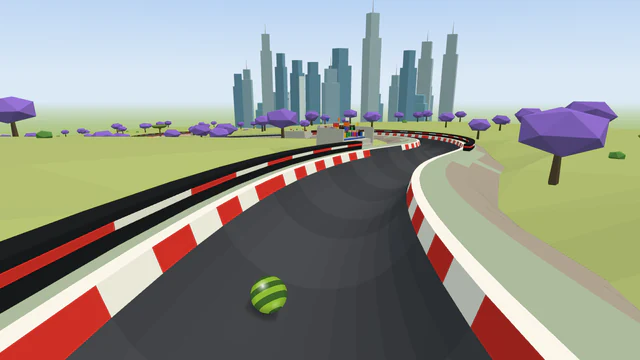
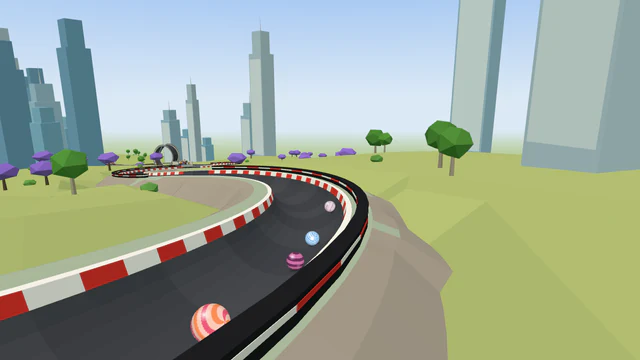
Nairobi Marble Grand Prix: its own layout; its records start again
Moses's order (7 Nov 2026, 08:26): four more Grand Prix tracks re-laid like Lagos, Istanbul and Sydney,
Nairobi first; its own layout and opening, two signature features from the real place, no jump. Until
now Nairobi was the Grand Prix recipe of 10 Oct 2026 (Dubai's track, mirrored). A banked-turn opening
to the right (the KICC drop and the City bank), the Uhuru S-bends (a slalom, then a cone), the
Expressway loop (the signature: a loop on the elevated Nairobi Expressway, its TV camera just past
it), the Run to Westlands, the Westlands hairpin (turning left: turning right, the Mbagathi S-bends
ran under the loop's straight and the follow camera went inside the bank), the Mbagathi S-bends, the
Acacia splitter (shorter than the Grand Prix one; its inside channel rougher), the Plains spiral and
the Plains straight along the park fence. Start shots from the front, then looking back.

Full report: all 56 lines pass (winner 54.0 s, last 78.5 s, gap 15.1 s, 67 overtakes; 60,000 of 60,000
round the loop; splitter 55.7%/53.1% and 44.3%/46.9%; layout closest 0.63, first 20 seconds closest
0.78). Website TV camera test passes. Data update 2027-06-06-nairobi-marble-grand-prix-new-layout.sql
(--relayout: its records start again). Off the sameness test's known failures; the loop test lists
it. Docs: 02, 04, 06, README, src/tracks/README.md. Server suite 626 pass; website 1810 pass.

Claude-Session: https://claude.ai/code/session_011vSSkqNPL9kncfzrwF15wS

diff --git a/src/tracks/nairobi-marble-grand-prix.js b/src/tracks/nairobi-marble-grand-prix.js
@@ -1,57 +1,71 @@
 'use strict';
 
-const { track, plunge, straight, sBends, sweep, spiral, hairpin, splitter, runIn, pileUp, swipe, parked, slalom, boost, rumble } = require('../trackKit');
+// Nairobi Marble Grand Prix, its own layout (Moses, 7 Nov 2026: four more Grand Prix tracks re-laid the same way
+// as Lagos, Istanbul and Sydney, Nairobi first). Until then it was the Grand Prix recipe of 10 Oct 2026 (the same
+// track as Dubai, mirrored). Now the field drops from the KICC and banks right into the city, threads the Uhuru
+// S-bends, loops the loop on the Nairobi Expressway (the signature: the elevated highway over the city), runs to
+// Westlands and round its hairpin, takes the Mbagathi S-bends into the Acacia splitter (a channel either side of a
+// great flat-topped acacia, giraffes beyond), spirals down onto the plains of the national park and runs along its
+// fence to the line. Its records started again with the new layout (tracks.records_since).
+const {
+  track, opening, straight, sBends, spiral, hairpin, splitter, runIn, peg, slalom, swipe, rumble, loop,
+} = require('../trackKit');
 
 module.exports = track({
   slug: 'nairobi-marble-grand-prix',
   name: 'Nairobi Marble Grand Prix',
   difficulty: 'extreme',
-  description: 'The city where wildlife lives beside the skyline: from the KICC tower through Uhuru Park and downtown, then along the national park\'s fence with giraffes and zebras grazing, to a grandstand finish on the plains.',
+  description: 'The city where wildlife lives beside the skyline: down from the KICC and through Uhuru Park, round the loop on the Nairobi Expressway, through Westlands and either side of a great acacia, and down onto the national park\'s plains to a grandstand finish.',
   surface: 'asphalt',
   biome: 'city',
   lighting: 'day',
   variants: ['sunset'],
   grandPrix: true,
-  signature: 'Park boundary run',
+  signature: 'Expressway loop',
   tvCameras: [
-    { section: 'Park boundary run', at: 0.8, side: 'left', distance: 6, height: 8 },
-    { section: 'Acacia splitter', at: 0.8, side: 'left', distance: 10, height: 8 },
+    // (Past the loop, looking back up at the field coming round it.)
+    { section: 'Expressway loop', at: 0.55, side: 'right', distance: 8, height: 7 },
   ],
   billboardFrame: 'plain',
-  start: { landmark: 'kicc-tower', scenery: ['skyscrapers'], shots: { countdown: 'chase', launch: 'overhead' } },
+  start: { landmark: 'kicc-tower', scenery: ['skyscrapers'], gate: 'barrier', shots: { countdown: 'front', launch: 'look-back' } },
   finish: { landmark: 'safari-truck', scenery: ['savannah'] },
   designChanges: [
-    'The traffic-cone chicane is at the foot of the City plunge, straight after the tyre stacks, rather than in the Uhuru S-bends: on the bends it left too few overtakes and the field reached the splitter sorted so that one channel never gave its marbles a fair share of wins (measured on Dubai Marble Grand Prix, the same layout).',
-    'The Acacia splitter comes straight after the Uhuru S-bends, before the Downtown sweep, rather than after the Park boundary run: the proven place for a splitter is after S-bends, where the field arrives mixed, and out of the hairpin the field rides one side of the channel (measured on Dubai Marble Grand Prix).',
-    'A 50 m straight, "Run to the hairpin", before the hairpin, and the parked matatu stands there rather than at the hairpin itself: the recipe needs a braking zone before the one sharp bend and keeps parked objects to straights (on a bend one traps marbles against it).',
-    'The parked safety car is on a straight, "Plains straight", between the spiral and the finish rather than on the run-in: the recipe keeps the last 25 m before the line clear.',
+    'A new layout (7 Nov 2026): until then Nairobi was physically the Grand Prix recipe of 10 Oct 2026 (the same track as Dubai Marble Grand Prix, mirrored). Its old signature, the Park boundary run, goes.',
+    'Two Nairobi features: the Expressway loop (big feature one, the signature: a loop on the elevated Nairobi Expressway) and the Acacia splitter (big feature two: a channel either side of a flat-topped acacia, as on the plains of the national park). No jump: the three jump tracks are used.',
+    'The opening a banked turn to the right (the KICC drop, then a 110° bank into the city): the latest re-layouts opened with a split start, a crest, a pipe drop and a funnel drop. Its start shots (from the front, then looking back) are its own among the Grand Prix tracks.',
+    'The Acacia splitter shorter than the Grand Prix one (a 60 m run-in, 100° round the tree and a 30 m merge) and the Plains spiral tighter (40 m): with the full-length splitter the winner took 56 s, over the 55 s target. With the shorter splitter its inside (right) channel was the quicker way round, so it is rougher (2.1) and the outside one smoother (0.3), and the tip 0.3 m over: now about 46% of the marbles take the inside channel and win about 51% of the races.',
+    'The Uhuru S-bends\' slalom before their cone, not after it: the other way round, the first 20 seconds were too like Accra December Beats\' (a banked-turn opening, then a pile-up, a slalom, a bend, a peg and a slalom; 0.84). The Uhuru S-bends gentler than first drawn (75°, not 90°): at 65° to 90° the weakest marbles reached the Expressway loop\'s launch pad more often than the strongest. The loop keeps its full 130 m straight (30 m before the pad and 15 m after the catch, as the recipe needs). The Westlands hairpin turns left: turning right, the Mbagathi S-bends ran under the loop\'s straight (3 m aside, 25 m below) and the follow camera went inside the bank between them.',
   ],
+  opening: opening('banked-turn', {
+    side: 'right',
+    costumes: { block: 'tyre-stack', slalom: 'traffic-cone' },
+    names: { plunge: 'KICC drop', turn: 'City bank' },
+    dress: { plunge: { scenery: ['skyscrapers'] }, turn: { scenery: ['skyscrapers'] } },
+  }),
   sections: [
     {
-      name: 'City plunge', shape: plunge(80, { grade: 0.6 }),
-      obstacles: [pileUp({ costume: 'tyre-stack', at: 0.42 }), slalom({ costume: 'traffic-cone', from: 0.55, to: 0.97, count: 6, loss: 0.3 })],
+      name: 'Uhuru S-bends', shape: sBends({ first: 'left', radius: 70, degrees: 75, grade: 0.16 }), billboards: 3, scenery: ['jacarandas', 'crowd'],
+      obstacles: [slalom({ costume: 'traffic-cone', from: 0.15, to: 0.5, count: 3, loss: 0.2 }), peg({ costume: 'traffic-cone', at: 0.75, line: 'center' })],
     },
-    { name: 'Uhuru S-bends', shape: sBends({ first: 'left', radius: 75, degrees: 80, grade: 0.13 }), billboards: 2, scenery: ['jacarandas', 'crowd'] },
+    { name: 'Expressway loop', shape: straight(130, { grade: 0.12 }), features: [loop({ at: 0.25, viewSide: 26 })], scenery: ['skyscrapers'] },
     {
-      name: 'Acacia splitter', shape: splitter({ side: 'left', balance: { tipOffset: -0.8, left: { drag: 1.32, scrub: 1.32 }, right: { drag: 0.42, scrub: 0.72 } } }),
-      around: 'acacia', scenery: ['jacarandas'],
-      landmarks: [{ name: 'safari-truck', at: 0.4, side: 'right', distance: 10 }, { name: 'safari-truck', at: 0.7, side: 'left', distance: 12 }],
+      name: 'Run to Westlands', shape: straight(40, { grade: 0.12 }), billboards: 1, scenery: ['skyscrapers'],
+      obstacles: [peg({ costume: 'traffic-cone', at: 0.3, line: 'left' })],
     },
-    { name: 'Downtown sweep', shape: sweep({ side: 'right', radius: 80, degrees: 160, grade: 0.07 }), features: [boost({ at: 0.08 })], billboards: 3, scenery: ['skyscrapers'] },
+    { name: 'Westlands hairpin', shape: hairpin({ side: 'left' }), obstacles: [swipe({ costume: 'camera-crane', side: 'high' })], scenery: ['grandstand'] },
+    { name: 'Mbagathi S-bends', shape: sBends({ first: 'right', radius: 75, degrees: 85, grade: 0.17 }), scenery: ['jacarandas'] },
     {
-      name: 'Run to the hairpin', shape: straight(50, { grade: 0.12 }), billboards: 1, scenery: ['skyscrapers'],
-      obstacles: [parked({ costume: 'matatu', at: 0.08, side: 'right', length: 6 })],
+      name: 'Acacia splitter',
+      shape: splitter({ side: 'right', approach: 60, degrees: 100, merge: 30, balance: { tipOffset: 0.3, left: { drag: 0.3, scrub: 0.5 }, right: { drag: 2.1, scrub: 2.1 } } }),
+      around: 'acacia', scenery: ['savannah'],
+      figures: ['giraffe', 'zebra', 'giraffe'],
     },
-    { name: 'Hairpin', shape: hairpin({ side: 'left' }), scenery: ['grandstand'] },
+    { name: 'Plains spiral', shape: spiral({ side: 'left', radius: 40, grade: 0.2 }), scenery: ['savannah'] },
     {
-      name: 'Park boundary run', shape: straight(50, { grade: 0.15 }), features: [rumble({ from: 0.62, to: 0.95, count: 3 })], billboards: 1, scenery: ['savannah'],
-      figures: ['giraffe', 'zebra', 'buffalo', 'zebra', 'giraffe'],
+      name: 'Plains straight', shape: straight(45, { grade: 0.15 }), billboards: 1, scenery: ['grandstand', 'savannah'],
+      obstacles: [peg({ costume: 'traffic-cone', at: 0.25, line: 'right' }), peg({ costume: 'traffic-cone', at: 0.45, line: 'left' })],
+      features: [rumble({ from: 0.7, to: 0.95, count: 3 })],
       landmarks: [{ name: 'park-fence', at: 0.5, side: 'right', distance: 3 }],
-    },
-    { name: 'Plains spiral', shape: spiral({ side: 'right', radius: 45, grade: 0.17 }), obstacles: [swipe({ costume: 'camera-crane', at: 0.5, side: 'high' })], scenery: ['savannah'] },
-    {
-      name: 'Plains straight', shape: straight(40, { grade: 0.15 }), billboards: 1, scenery: ['grandstand', 'savannah'],
-      obstacles: [parked({ costume: 'safety-car', at: 0.2, side: 'right', length: 8 })],
     },
     { name: 'Finish', shape: runIn(), scenery: ['savannah'] },
   ],

diff --git a/test/loop.test.js b/test/loop.test.js
@@ -42,8 +42,9 @@ test('the loop\'s proving track: the loop is its feature (the flyover\'s highlig
   assert.equal(pad.min, 25);
   assert.equal(t.physics.kit.signature ?? t.signature, 'The loop');
   assert.ok(t.physics.kit.tv.some((c) => c.section === 'The loop' && c.p > lp.at));
-  // The only tracks with a loop: its proving track, Saint-Tropez and Pudong Marble Grand Prix (3 Nov 2026, both switched off until Moses says).
-  assert.deepEqual(PHYSICS_TRACKS.filter((x) => x.physics?.features?.some((y) => y.type === 'loop')).map((x) => x.slug), [SLUG, 'saint-tropez', 'pudong-marble-grand-prix']);
+  // The only tracks with a loop: its proving track, Saint-Tropez and Pudong Marble Grand Prix (3 Nov 2026), and Nairobi
+  // Marble Grand Prix's Expressway loop (its own layout, 7 Nov 2026).
+  assert.deepEqual(PHYSICS_TRACKS.filter((x) => x.physics?.features?.some((y) => y.type === 'loop')).map((x) => x.slug), [SLUG, 'nairobi-marble-grand-prix', 'saint-tropez', 'pudong-marble-grand-prix']);
 });
 
 test('every marble goes round the loop at racing speed, and every one finishes', () => {

diff --git a/test/samenessAllTracks.test.js b/test/samenessAllTracks.test.js
@@ -43,9 +43,8 @@ const KNOWN = {
   'amazon-water-run': ['layout'],
   'rio-jungle-rumble': ['opening', 'opening-kind', 'layout'],
   'china-wall-twister': ['opening', 'opening-kind', 'layout'],
-  // Grand Prix (one design: Dubai's; Stockholm, Lagos, Istanbul and Sydney have their own since 6–7 Nov 2026).
+  // Grand Prix (one design: Dubai's; Stockholm, Lagos, Istanbul, Sydney and Nairobi have their own since 6–7 Nov 2026).
   'dubai-marble-grand-prix': ['opening', 'opening-kind', 'layout'],
-  'nairobi-marble-grand-prix': ['opening', 'opening-kind', 'layout'],
   'delhi-red-fort-marble-grand-prix': ['opening', 'opening-kind', 'layout'],
   'sahara-marble-grand-prix': ['opening', 'opening-kind', 'layout'],
   'elderglade-marble-grand-prix': ['opening-kind'], // (its opening and layout are its own since Sydney, Lagos and Stockholm got theirs, 7 Nov 2026)

diff --git a/docs/06-decisions.md b/docs/06-decisions.md
@@ -1,9 +1,10 @@
 # 6. Decisions log
 
-*Last updated 6 Nov 2026.* Key product and technical decisions, newest first, each with its reason. Decisions are Moses's unless marked "(technical)". Add new ones at the top. Don't rewrite old entries: add a new entry that replaces them and say so.
+*Last updated 7 Nov 2026.* Key product and technical decisions, newest first, each with its reason. Decisions are Moses's unless marked "(technical)". Add new ones at the top. Don't rewrite old entries: add a new entry that replaces them and say so.
 
 | Date | Decision | Why |
 |---|---|---|
+| 2026-11-07 | **Nairobi Marble Grand Prix's new layout built** (technical, on Moses's order of 7 Nov 08:26: four more Grand Prix tracks re-laid like Lagos, Istanbul and Sydney, Nairobi first; each its own layout and opening, two signature features from the real place, no jump). A banked-turn opening to the right (the KICC drop and the City bank: the latest re-layouts opened with a split start, a crest, a pipe drop and a funnel drop), the Uhuru S-bends (a slalom, then a cone: the other way round the first 20 seconds were too like Accra December Beats'), the Expressway loop (the signature: a loop on the elevated Nairobi Expressway, its TV camera just past it), the Run to Westlands and the Westlands hairpin (turning left: turning right, the Mbagathi S-bends ran under the loop's straight and the follow camera went inside the bank between them), the Mbagathi S-bends, the Acacia splitter (a channel either side of a flat-topped acacia, giraffes and zebras beyond; shorter than the Grand Prix one, a 60 m run-in, 100° and a 30 m merge, with its inside channel rougher, 2.1, its outside one smoother, 0.3, and the tip 0.3 m over), the Plains spiral (40 m) and the Plains straight along the park fence. Start shots from the front, then looking back. Data update `2027-06-06-nairobi-marble-grand-prix-new-layout.sql` (`--relayout`: its records start again). | With the full-length Grand Prix splitter the winner took 56 s (target 48–55 s): the straights were not what made it slow (steeper or shorter straights changed little), the 300 m splitter was. Shorter, its inside channel was the quicker way round, hence the rougher inside. The Uhuru S-bends at 75°: at 65° the weakest marbles reached the loop's launch pad more often than the strongest. |
 | 2026-11-07 | **The app's countdown and hit sounds** (technical, after Moses's Android test of build 1.0.0 (2): the beeps about 30 s into the race, no bump or collision sounds; the website fine). Four causes fixed, website sound unchanged: (1) the sound's GO took the whole wait before the race (a slow phone building its track) while the picture is held back at most 12 s (`MAX_HOLD_MS`), so the beeps came that much after GO as shown: now the same cap; (2) at GO as shown, beeps timed for a later GO are dropped (never a countdown after GO); (3) the native player loaded every file at once (Android prepares each in a MediaPlayer) and a file slower than 8 s was lost for the visit (no hit sounds): now two at a time, the start and hit sounds first, and a late file still counts when it arrives; (4) Android ignores a stop while a play is still seeking: stopped once it starts. The race readiness report now carries the build, the beeps, the GO gap and failed loads (back office: Latest app races; the server keeps the new fields after its next deploy). | The countdown must be heard before GO, and the hit sounds in every race. |
 | 2026-11-07 | **Sydney Marble Grand Prix's new layout built** (technical, on Moses's overnight order, 6 Nov 23:14: its own layout, clearly different from Stockholm's, with two Sydney features). The Circular Quay funnel at the gate (a big feature), the Harbour Bridge (straight, steep, no boost pad: out of the funnel the weakest marbles took it far more often), The Rocks (a peg, a slalom, a peg: the first 20 seconds otherwise matched Antelope Slot Spins'), the Circular Quay S-bends, the Opera House splitter (the signature; its tip 2 m over and its inside channel 1.5: with the proven setting nine marbles in ten took one channel), the Botanic Garden spiral, the Woolloomooloo hairpin, the drop to Bondi, the Bondi wave (a half-pipe, two gentle swings: at 18° the camera jumped) and Macquarie Street (no parked car: the slowest marble stalled behind it). The hairpin comes before Bondi: with the wave last but one the ground rose between it and the finish and its banks crowded the finish shot. Start shots from above, then high behind. Spectator groups every 600 m (the drawing budget). Nothing like Stockholm's order (the nearest track, Åre Run, at 0.63). Full report: all 52 lines pass (winner 53.9 s, last 81.2 s, gap 15.8 s, 67 overtakes). Data update `2027-06-04-sydney-marble-grand-prix-new-layout.sql` (`--relayout`); off the sameness test's known failures, and Elderglade's opening and layout now pass too. | Sydney raced the same race as Lagos and Stockholm on every seed. |
 | 2026-11-07 | **Istanbul Marble Grand Prix's new layout built** (technical, on Moses's overnight order, 6 Nov 23:14: no jump, the three jump tracks are used; a peg-field descent or a bazaar tunnel spiral). The crest start from the Galata Tower, the Golden Horn S-bends (a peg, a short slalom and a peg: without them the first 20 seconds matched Sognefjord's and Chiang Mai's), the Galata Bridge (pegs), the Grand Bazaar spiral (the big feature and signature: a turn and a half round the clock tower), the Topkapı hairpin, the Bosphorus sweep, the Ortaköy S-bends and the Bosphorus straight; no splitter. The spiral was drawn first inside the bazaar's vaulted tunnel: its roof came within 0.5 m of the follow camera on the tight turns, and market stalls round it blocked the camera, so it is open to the sky (the plan's fallback). The peg-field descent was tried and ran too slow (59.6 s winner). Start shots from the side, then overhead. Spectator groups every 450 m (the drawing budget). Full report: all 50 lines pass (winner 54.6 s, last 84.3 s, gap 16.1 s, 64 overtakes). Data update `2027-06-03-istanbul-marble-grand-prix-new-layout.sql` (`--relayout`); off the sameness test's known failures. | Istanbul raced the same race as Dubai in practice. |

diff --git a/docs/04-game-rules.md b/docs/04-game-rules.md
@@ -169,7 +169,7 @@ Reports are saved in `reports/<slug>/`. Track design rules:
 - bends long and flowing, with at most one sharp bend per track;
 - a race needs its luck: the openings without the pile-up and slalom (clean drop, peg drop, pipe drop) let the field go in **waves** (five waves of four starting places, 0.3 s apart, in a new order every race); a track that opens without the pile-up and slalom and without the waves has a pile-up or a hard slalom (5+ gates, loss 0.3) in its first half;
 - TV moments (looks only): up to two trackside cameras a track cuts to as the followed marble comes up to them (from about 70 m out, cutting back 6 m before the camera: about 2.6 s), never in the first 8 s or the last 150 m; viewers can switch them off (the TV button). Since 30 Oct 2026 (Moses): the cameras stand 2 m higher wherever the scenery leaves room and aim a little up the track; in **about every other race** (picked from the field, the same live, in rooms and in the replay) a camera between 35% and 70% of the way (else the one nearest the middle, 25–78%) instead shows the **pack shot**: the first bunch of **at least 5 marbles** within 20 m of each other coming up to it, framed whole, about 3 s, cutting back 6 m before the camera; no such bunch, no pack shot that race. The player finds their marble by its arrow (no ring since 30 Oct 2026, Moses: the arrow is enough); during the pack shot a label shows where the player stands ("Leader +1.8 s", "7th, in the pack", "12th, 3.4 s behind") for up to 2.6 s;
-- the loop (the track kit's `loop`, available since 2 Nov 2026, approved by Moses; its first tracks are Saint-Tropez and Pudong Marble Grand Prix, built switched off on 3 Nov 2026 and live since 4 Nov; proven on its test track `variety-layout-loop-run`): a roller-coaster loop, not a circle: its curve tightens steadily from nothing at the bottom to its tightest at the top (a clothoid; 6 m radius at the top, 19 m tall), leaning 11 m aside so the way down passes beside the way in, then a 40 m run-out back in line. A launch pad wall to wall before it brings every marble up to at least 25 m/s (the recipe checks that the hardest-gliding marble still comes over the top with 1.5 g of pull to spare). Round it the floor holds the marble as long as the curve's pull beats gravity; one that ever loses its hold (too slow over the top, or stalling on the way up) drops into a net hung inside the loop, which lets it out onto the way down: back on the track, never off it, slower than the rest. Its walls are low round the loop (the floor holds the marble in the middle), so the marbles show from beside it; the follow camera swings out beside the loop, level, and watches its marble go round. The recipe allows one a track, on a straight of grade 0.05–0.2, with 30 m of the straight before its pad, 15 m after it and nothing else within 15 m. **A track with a loop needs extra overtaking room after it** (the loop is ridden in single file; the test track came out exactly at 60 overtakes): a longer run-out or an overtaking section right after it, aiming clearly above 60 overtakes in its full report (about 65 or more).
+- the loop (the track kit's `loop`, available since 2 Nov 2026, approved by Moses; its first tracks are Saint-Tropez and Pudong Marble Grand Prix, built switched off on 3 Nov 2026 and live since 4 Nov; the third, Nairobi Marble Grand Prix's Expressway loop, with its own layout of 7 Nov 2026; proven on its test track `variety-layout-loop-run`): a roller-coaster loop, not a circle: its curve tightens steadily from nothing at the bottom to its tightest at the top (a clothoid; 6 m radius at the top, 19 m tall), leaning 11 m aside so the way down passes beside the way in, then a 40 m run-out back in line. A launch pad wall to wall before it brings every marble up to at least 25 m/s (the recipe checks that the hardest-gliding marble still comes over the top with 1.5 g of pull to spare). Round it the floor holds the marble as long as the curve's pull beats gravity; one that ever loses its hold (too slow over the top, or stalling on the way up) drops into a net hung inside the loop, which lets it out onto the way down: back on the track, never off it, slower than the rest. Its walls are low round the loop (the floor holds the marble in the middle), so the marbles show from beside it; the follow camera swings out beside the loop, level, and watches its marble go round. The recipe allows one a track, on a straight of grade 0.05–0.2, with 30 m of the straight before its pad, 15 m after it and nothing else within 15 m. **A track with a loop needs extra overtaking room after it** (the loop is ridden in single file; the test track came out exactly at 60 overtakes): a longer run-out or an overtaking section right after it, aiming clearly above 60 overtakes in its full report (about 65 or more).
 - the racing look (looks only, every kit track in every series, 30 Oct 2026): chequered start and finish lines; short, muted red-and-white kerbs on the inside of the 3 sharpest bends; 3 sets of muted off-white chevrons on the longest straights of 45 m or more (2, or 1, where a track has fewer), never within 15 m of a speed pad, so they never look like boosts; Track and Field keeps its white start line, the chequer at its finish only, no kerbs or chevrons;
 - tracks sit in the ground like a trench, raised only where they drop away or cross;
 - at least 35 of the 50 launch tracks must be truly unique (mirrors count towards the 50).

diff --git a/docs/README.md b/docs/README.md
@@ -9,7 +9,7 @@
 **Where it stands:**
 - **Website:** live at marblespins.com (Vercel builds every push to `Main`; redeployed by Moses on 1 Nov after the Blocks Series 2 switch-on). Soft start (social media, 10–20 invited test pilots) since the week of 26 Oct. **Official launch 1 Dec 2026**, with the Holiday Season, the season pass and the apps. Google Analytics 4 is on since 31 Oct (after cookie consent); the Meta Pixel is off.
 - **Tracks:** **143 live in ten series**: World Tour, Grand Prix, Coasters, Canyons, Blocks, Track and Field, Rivers (16), Peaks (15), Pinball and Arcade. The 31 holiday tracks are switched on but hidden and closed until 1 Dec 00:00 Swedish time (174 then). **Blocks Series 2: all 20 live** (two big features each): the test five since 31 Oct; the other fifteen (four cities, three rivers, four mountains, four winter tracks) switched on by Moses on 1 Nov after the server deploy. **Saint-Tropez** (World Tour) and **Pudong Marble Grand Prix** (Grand Prix), the first two tracks with the kit's loop, switched on by Moses on 4 Nov 2026 by hand in Railway's query box, after the server deploy; the website redeployed the same morning.
-- **Server:** deployed by Moses on 7 Nov 2026 from Main (code fingerprint `22aa52923453`, `1ed7e9e`): the own layouts of Lagos, Istanbul and Sydney Marble Grand Prix (data updates `2027-06-02-…` to `2027-06-04-…-new-layout.sql`; their records started again). Before that, 6 Nov (`533b9d0d08de`, `645de71`; 487 columns): the records reset on a new layout (`tracks.records_since`) and Stockholm's own layout. Before that, 4 Nov (`d7928db64307`, `ae7dc20`; 177 tracks in the database): Pudong Marble Grand Prix (data update `2027-05-31-add-pudong-marble-grand-prix.sql`). Before that, 3 Nov (`a096af4ab19a`, 176 tracks): the loop engine (physics for the track kit's `loop` piece) and Saint-Tropez (`2027-05-30-add-saint-tropez.sql`). Before that, 2 Nov (`fb4654c0885e`, last server change `6e23a24`; 486 columns): the back office Dashboard, staff accounts (`users.is_staff`), the first-visit steps (`first_steps`), guests made with what they tapped, the hourly IP clean-up, the Security tab loaded on its own and audited (`security-view`), and the first country in the Players list. **Waiting for the next server deploy:** the race readiness report's new fields for the apps (build, beeps, GO gap, failed loads; `src/readiness`: no table or column change), and Lagos Marble Grand Prix's second TV camera taken out (data update `2027-06-05-lagos-marble-grand-prix-tv-camera.sql`; looks only, its records stay). **Waiting for the next app build (1.0.0 (3)):** the app's countdown and hit-sound fixes (website sound unchanged).
+- **Server:** deployed by Moses on 7 Nov 2026 from Main (code fingerprint `22aa52923453`, `1ed7e9e`): the own layouts of Lagos, Istanbul and Sydney Marble Grand Prix (data updates `2027-06-02-…` to `2027-06-04-…-new-layout.sql`; their records started again). Before that, 6 Nov (`533b9d0d08de`, `645de71`; 487 columns): the records reset on a new layout (`tracks.records_since`) and Stockholm's own layout. Before that, 4 Nov (`d7928db64307`, `ae7dc20`; 177 tracks in the database): Pudong Marble Grand Prix (data update `2027-05-31-add-pudong-marble-grand-prix.sql`). Before that, 3 Nov (`a096af4ab19a`, 176 tracks): the loop engine (physics for the track kit's `loop` piece) and Saint-Tropez (`2027-05-30-add-saint-tropez.sql`). Before that, 2 Nov (`fb4654c0885e`, last server change `6e23a24`; 486 columns): the back office Dashboard, staff accounts (`users.is_staff`), the first-visit steps (`first_steps`), guests made with what they tapped, the hourly IP clean-up, the Security tab loaded on its own and audited (`security-view`), and the first country in the Players list. **Waiting for the next server deploy:** the race readiness report's new fields for the apps (build, beeps, GO gap, failed loads; `src/readiness`: no table or column change), and Lagos Marble Grand Prix's second TV camera taken out (data update `2027-06-05-lagos-marble-grand-prix-tv-camera.sql`; looks only, its records stay), and Nairobi Marble Grand Prix's own layout (the Expressway loop and the Acacia splitter; data update `2027-06-06-nairobi-marble-grand-prix-new-layout.sql`; its records start again). **Waiting for the next app build (1.0.0 (3)):** the app's countdown and hit-sound fixes (website sound unchanged).
 - **Apps:** iPhone and Android (Capacitor) are built; the Android app is tested on Moses's phone. They need a rebuild for the keep-awake fix and the new sounds. Store submission is planned for 16–20 Nov.
 - **Email: on since 1 Nov 2026** (Brevo; `BREVO_API_KEY` and `EMAIL_FROM` on Railway, a password-reset email arrived in Moses's inbox; sender no-reply@marblespins.com since 4 Nov 2026, marblespins.com re-authenticated in Brevo that day, support replies with support@ as reply-to): password resets, "Confirm your email" for new sign-ups, support replies and contact-form notifications. The pass reminders are not sent yet.
 - **Payments:**

diff --git a/docs/02-code-map.md b/docs/02-code-map.md
@@ -84,7 +84,7 @@
 - `rng.js`: the seeded random-number generator (mulberry32). The engines never use `Math.random` or the clock.
 - `skill.js`: skill is the player's, not the marble's. `skillStats(skill)` sets all four engine stats to the skill. Also `HOUSE_SKILLS` (the computer players, 45–55) and `STARTING_SKILL` (50).
 - `simulator.js`: the **classic** 1-D engine (`SIMULATOR_VERSION = 'solid-marbles-1'`). Old races are **re-simulated** from their seed, so this file must never change behaviour.
-- `loopShape.js` (2 Nov 2026; the kit's `loop`; live on Saint-Tropez and Pudong Marble Grand Prix since 4 Nov 2026): a loop's path, a clothoid (curvature rising from nothing at the bottom to `1/topRadius` at the top), leaning `shift` metres aside so the way down passes beside the way in, then a `runout` back in line; the U's low walls round it (`lipAt`) and where its net lets a caught marble out (`netLanding`). The 3D view has the same maths in `client/src/three/loopShape.js` (`client/test/loop.test.js` checks they agree).
+- `loopShape.js` (2 Nov 2026; the kit's `loop`; live on Saint-Tropez and Pudong Marble Grand Prix since 4 Nov 2026; Nairobi Marble Grand Prix's Expressway loop with its own layout, 7 Nov 2026, waiting for the deploy): a loop's path, a clothoid (curvature rising from nothing at the bottom to `1/topRadius` at the top), leaning `shift` metres aside so the way down passes beside the way in, then a `runout` back in line; the U's low walls round it (`lipAt`) and where its net lets a caught marble out (`netLanding`). The 3D view has the same maths in `client/src/three/loopShape.js` (`client/test/loop.test.js` checks they agree).
 - `physicsSimulator.js`: the **new physics** engine (`PHYSICS_VERSION`), used by every track with `tracks.physics`. Half-pipes (`channel.wides`: the channel widening into a U, `wideAt`), jib parts (features `box`: raised flat tops marbles ride over or are pushed round, `boxLift`) and boost-pad jumps (features `jump`: kicker, gap, landing deck and the hidden catch channel, `advanceJump`, `jumpLift`; a launch pad is a `boost` with a `min` speed; `stats.jumpFlights` for the report) and loops (2 Nov 2026; live on Saint-Tropez and Pudong Marble Grand Prix since 4 Nov: features `loop`, its path from `loopShape.js`; `enterLoop`, `loopPress` (the floor's press: the curve's pull less gravity), `holdOnInLoop`, `fallInLoop` (a marble that loses its hold drops into the net and out onto the way down); collisions measured along its path, `loopPathAt`; `stats.loops` for the report) race only on tracks that have them. Its races are stored as replays (`race_replays`), so tuning it never changes a past race. The comments at the top of this file and `routes/physics.js` still say real races use the classic engine; that is no longer true.
 - `runSimulation.js`: picks the engine; `packReplay` gzips a physics race.
 - `simulationPool.js` + `simulationWorker.js`: run simulations in a worker thread, falling back to the main thread.

diff --git a/src/tracks/README.md b/src/tracks/README.md
@@ -30,7 +30,7 @@ Then add it to `index.js` in this folder.
 No "safe only" tracks. Every new track has **at least one big, exciting feature**:
 - a jump or hop over a gap (the boost-pad jump, a hop);
 - a splitter with two paths;
-- a loop (the kit's `loop`, available since 2 Nov 2026: a clothoid roller-coaster loop with its launch pad, proven on its test track `variety-layout-loop-run` with the full report; live on two tracks since 4 Nov 2026; its first track is Saint-Tropez, 3 Nov 2026: rough cobbles into the S-bends after the loop bunch the field again, 65 overtakes; the second Pudong Marble Grand Prix, 3 Nov 2026: rough paving into the waterfront S-bends after it, the same way, 70 overtakes. `loop({ viewSide })`, looks only: how far out beside it the follow camera watches it (default 30 m; Saint-Tropez 26, to see down into a cliff road's channel). **A track with a loop needs extra overtaking room after it** (the loop is ridden in single file: the test track's overtakes came out exactly at the target of 60): a longer run-out or an overtaking section right after it (S-bends, a wide sweep, pegs), aiming clearly above 60 overtakes in its full report, about 65 or more);
+- a loop (the kit's `loop`, available since 2 Nov 2026: a clothoid roller-coaster loop with its launch pad, proven on its test track `variety-layout-loop-run` with the full report; live on two tracks since 4 Nov 2026, a third with Nairobi Marble Grand Prix's own layout of 7 Nov 2026; its first track is Saint-Tropez, 3 Nov 2026: rough cobbles into the S-bends after the loop bunch the field again, 65 overtakes; the second Pudong Marble Grand Prix, 3 Nov 2026: rough paving into the waterfront S-bends after it, the same way, 70 overtakes. `loop({ viewSide })`, looks only: how far out beside it the follow camera watches it (default 30 m; Saint-Tropez 26, to see down into a cliff road's channel). **A track with a loop needs extra overtaking room after it** (the loop is ridden in single file: the test track's overtakes came out exactly at the target of 60): a longer run-out or an overtaking section right after it (S-bends, a wide sweep, pegs), aiming clearly above 60 overtakes in its full report, about 65 or more);
 - a funnel;
 - a big drop;
 - a dramatic banked turn.
